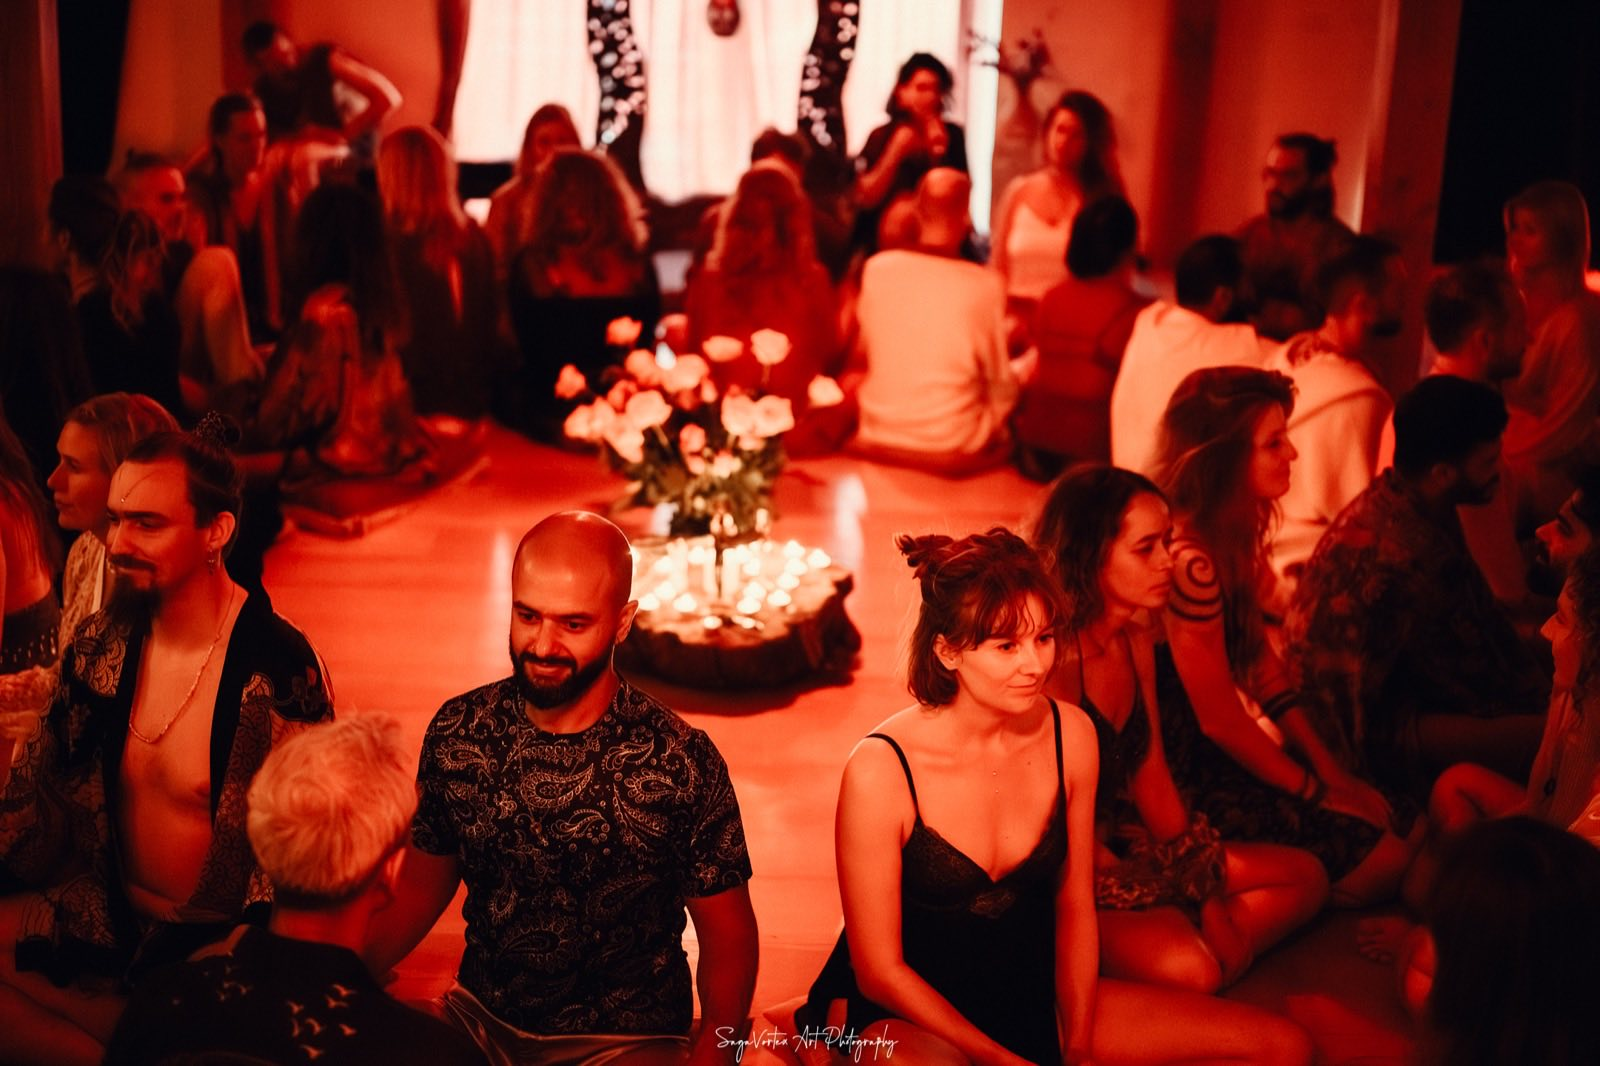
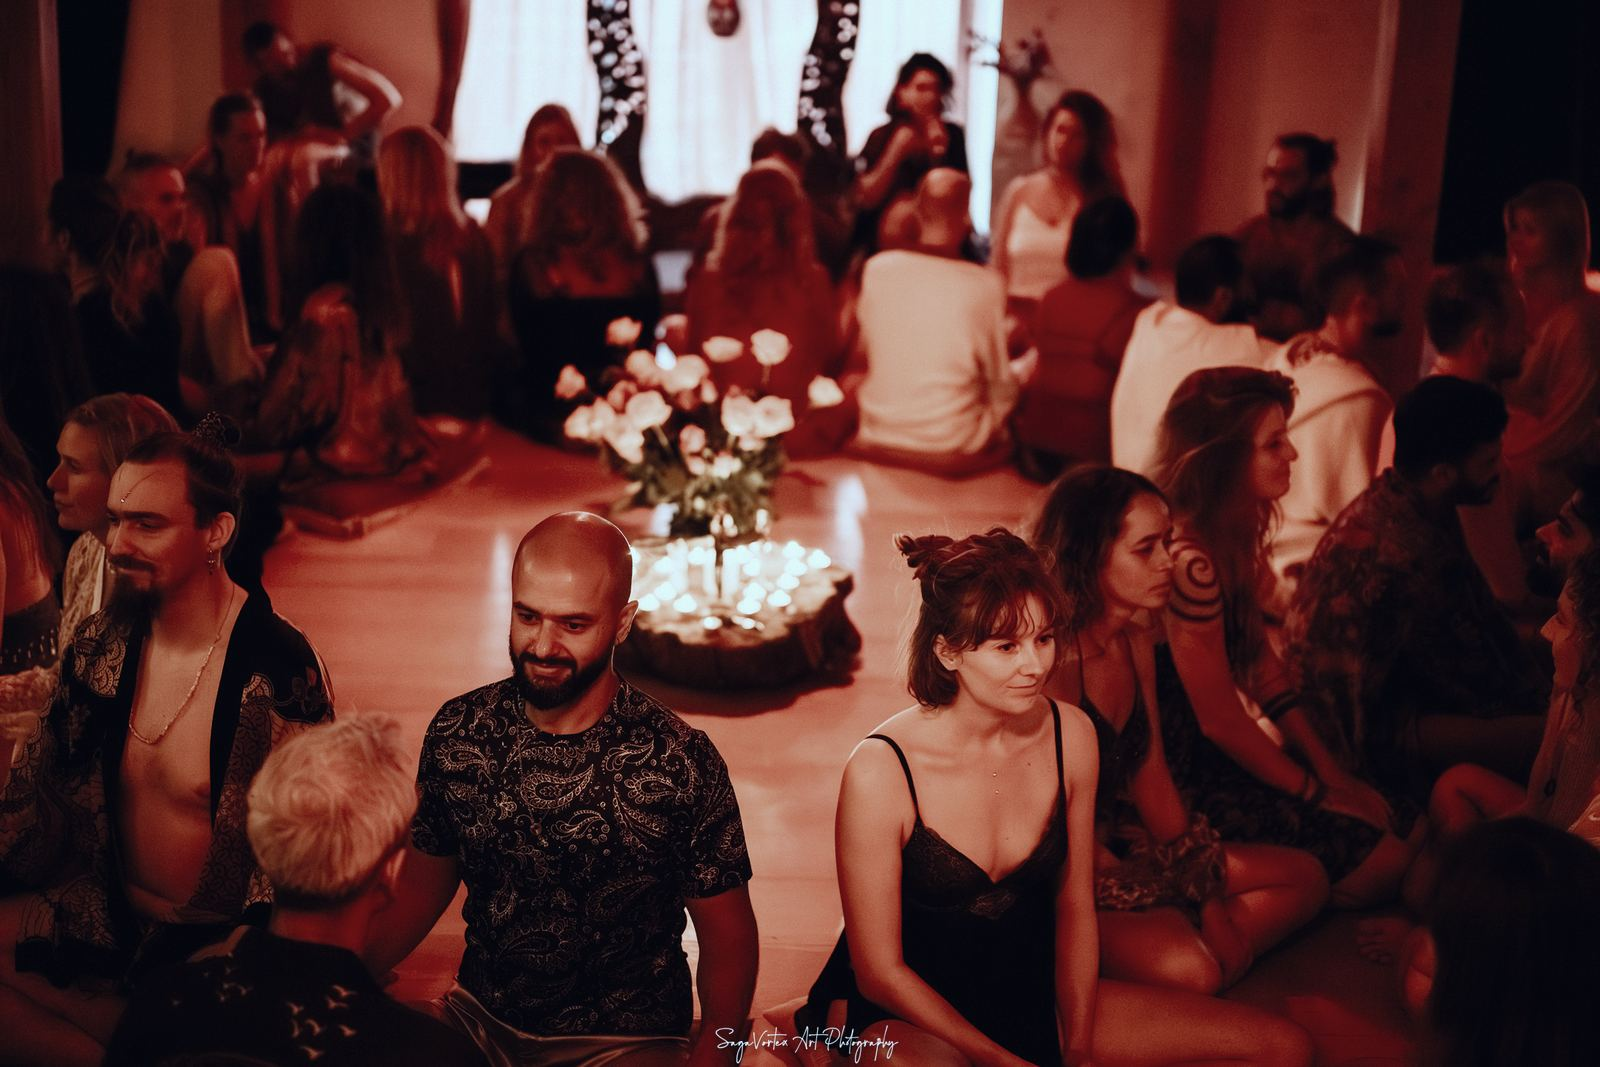
Swap last gallery photo and tone down red cast on event lighting shots

diff --git a/index.html b/index.html
@@ -120,7 +120,7 @@
         data-title="The Ceremonial Field"
         data-tagline="A Glimpse Inside"
         data-grid-class="gallery-2"
-        data-images='<div class="gallery-item"><img src="assets/img/ceremony-circle-overhead.jpg" alt="Ceremonial detail"></div><div class="gallery-item"><img src="assets/img/events/temple-close-embrace-gold-drape.jpg" alt="Close embrace"></div><div class="gallery-item"><img src="assets/img/events/Maithuna-day02-byShariVandeCraen-150.jpg" alt="Integration circle"></div><div class="gallery-item"><img src="assets/img/events/temple-circle-candlelight.jpg" alt="Candlelit circle"></div><div class="gallery-item"><img src="assets/img/events/temple-embrace-red-light.jpg" alt="Embrace in red light"></div><div class="gallery-item"><img src="assets/img/hero/GoddessSandi-byShariVandeCraen-9.jpg" alt="Temple devotion"></div>'
+        data-images='<div class="gallery-item"><img src="assets/img/ceremony-circle-overhead.jpg" alt="Ceremonial detail"></div><div class="gallery-item"><img src="assets/img/events/temple-close-embrace-gold-drape.jpg" alt="Close embrace"></div><div class="gallery-item"><img src="assets/img/events/Maithuna-day02-byShariVandeCraen-150.jpg" alt="Integration circle"></div><div class="gallery-item"><img src="assets/img/events/temple-circle-candlelight.jpg" alt="Candlelit circle"></div><div class="gallery-item"><img src="assets/img/events/temple-embrace-red-light.jpg" alt="Embrace in red light"></div><div class="gallery-item"><img src="assets/img/events/temple-facilitating-qa.jpg" alt="Facilitating circle Q&A"></div>'
         data-section-class="section-dark mw-gallery--flush"
     ></div>
 